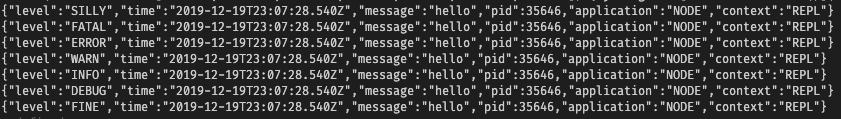
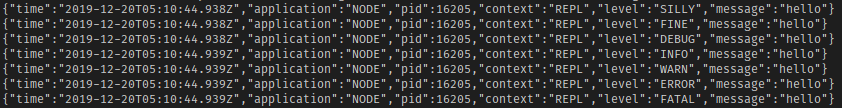
improvement(ogma): standardizes log format and updates docs

diff --git a/src/logger/ogma.ts b/src/logger/ogma.ts
@@ -103,18 +103,18 @@ export class Ogma {
     application?: string,
     context?: string,
   ): string {
-    const json: JSONLog = {
-      level: LogLevel[level] as keyof typeof LogLevel,
+    const json: Partial<JSONLog> = {
       time: this.getTimestamp(),
-      message,
-      pid: process.pid,
     };
     if (application || this.options.application) {
       json.application = application || this.options.application;
     }
+    json.pid = process.pid;
     if (context || this.options.context) {
       json.context = context || this.options.context;
     }
+    json.level = LogLevel[level] as keyof typeof LogLevel;
+    json.message = message;
     return JSON.stringify(json, this.circularReplacer());
   }
 
@@ -127,10 +127,8 @@ export class Ogma {
     if (typeof message === 'object') {
       message = '\n' + JSON.stringify(message, this.circularReplacer(), 2);
     }
-    const arrayString = [
+    const arrayString: Array<string | number> = [
       this.wrapInBrackets(this.getTimestamp()),
-      process.pid,
-      formattedLevel + ' |',
     ];
     if (application || this.options.application) {
       arrayString.push(
@@ -141,6 +139,7 @@ export class Ogma {
         ),
       );
     }
+    arrayString.push(process.pid);
     if (context || this.options.context) {
       arrayString.push(
         colorize(
@@ -150,7 +149,7 @@ export class Ogma {
         ),
       );
     }
-    arrayString.push(message);
+    arrayString.push(formattedLevel + '|', message);
     return arrayString.join(' ');
   }
 

diff --git a/README.md b/README.md
@@ -41,13 +41,21 @@ There is also the `printError` method on the `Ogma` class thta takes care of pri
 
 #### Adding Context and Application Name
 
-If for tracing purposes you'd like to add a context to the log, or an application name, you can pass the context to the method related to the logLevel (such as `ogma.debug('debug message, SomeClass.name, '[NestJS]')` and Ogma will print
+If for tracing purposes you'd like to add a context to the log, or an application name, you can pass the context to the method related to the logLevel (such as `ogma.debug('debug message, SomeClass.name, 'NestJS')` and Ogma will print
 
 ```sh
-[2019-12-19T23:01:23.900Z] 34760 [Debug] | [NestJS] [SomeClass] debug message
+[2019-12-19T23:01:23.900Z] [NestJS] 34760 [SomeClass] [Debug]| debug message
 ```
 
 > Note: If colors are enabled, application will print in Yellow and context will print in Cyan.
+
+When application and context are both present, Ogma will print your logs in a form as follows
+
+```sh
+[ISOString Date] [Application] PID [Context] [LogLevel]| message
+```
+
+Examples can be seen below. The JSON structure follows the same form with log level and message being the last two properties.
 
 #### Ogma Options
 
@@ -110,10 +118,10 @@ I said the logs were beautiful, and to me they absolutely are. Each log is match
 
 ```shell
 # ogma.log('hello')
-[2019-12-11T22:54:58.462Z] [INFO] | hello
+[2019-12-11T22:54:58.462Z] 34760 [INFO] | hello
 
 # ogma.log({a: () => 'hello', b: {c: 'nested'}, d: this});
-[2019-12-11T22:56:02.502Z] [INFO] |
+[2019-12-11T22:56:02.502Z] 34760 [INFO] |
 {
   "a": "[Function]",
   "b": {
